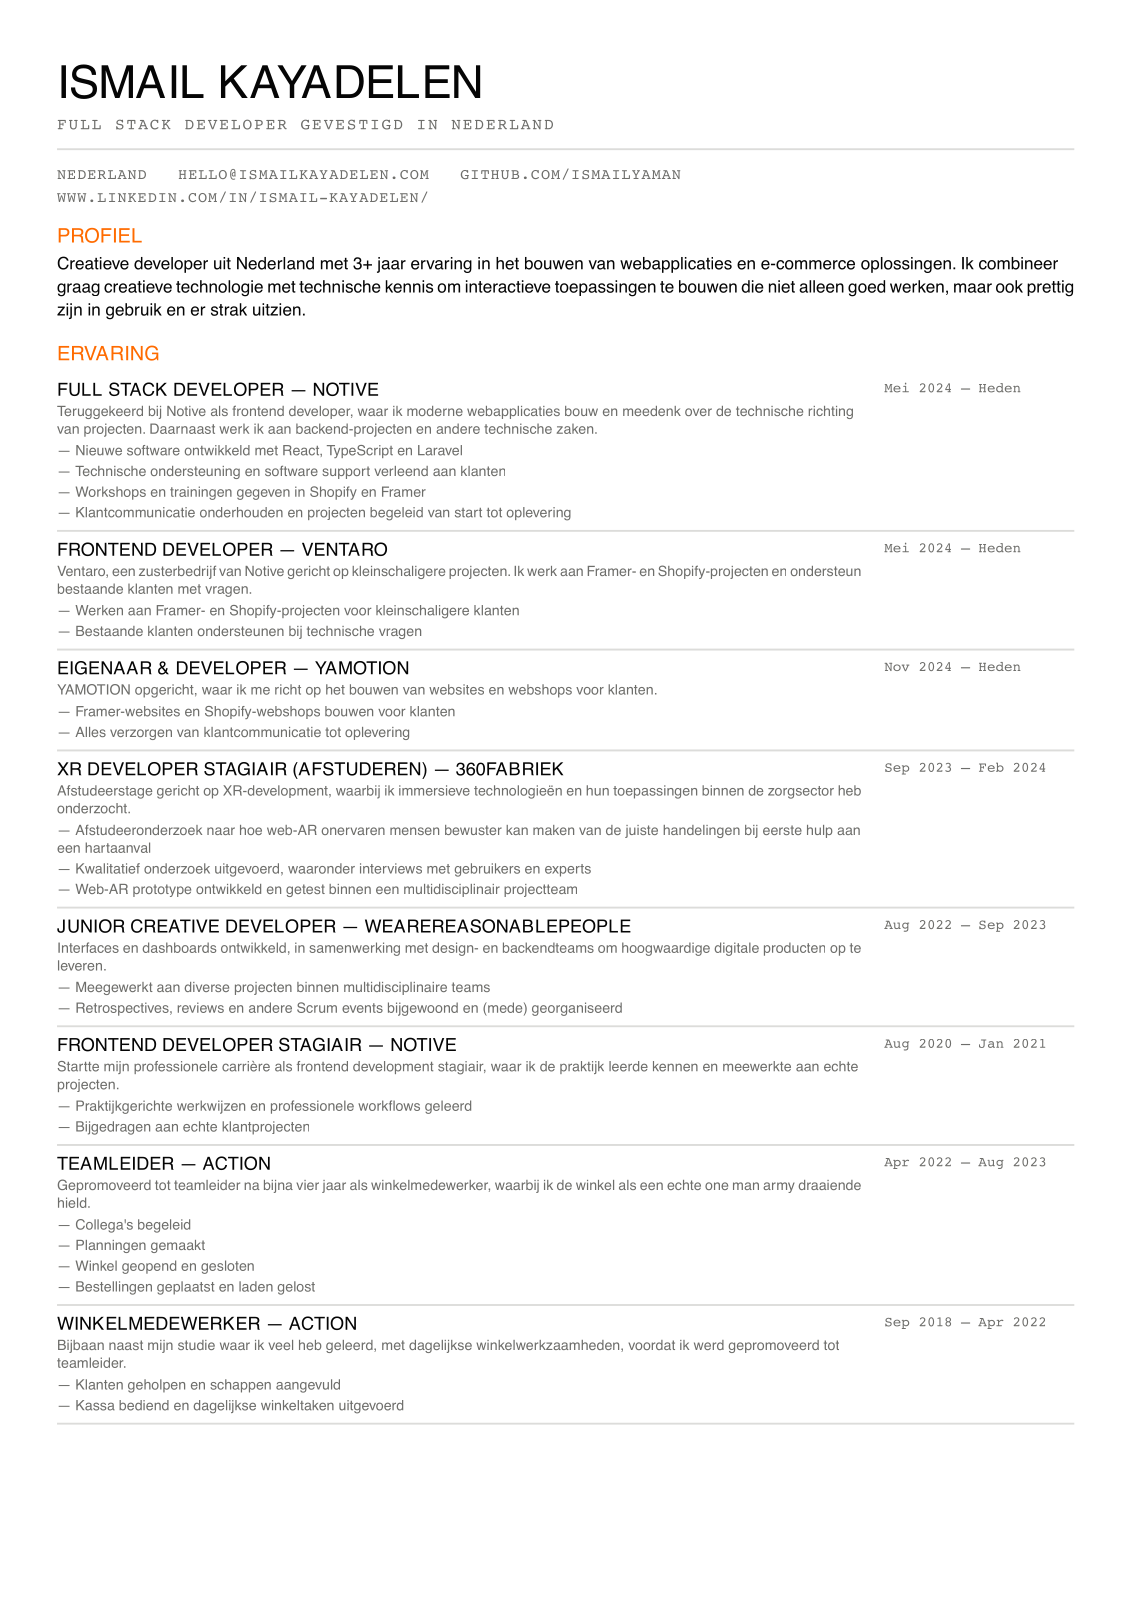
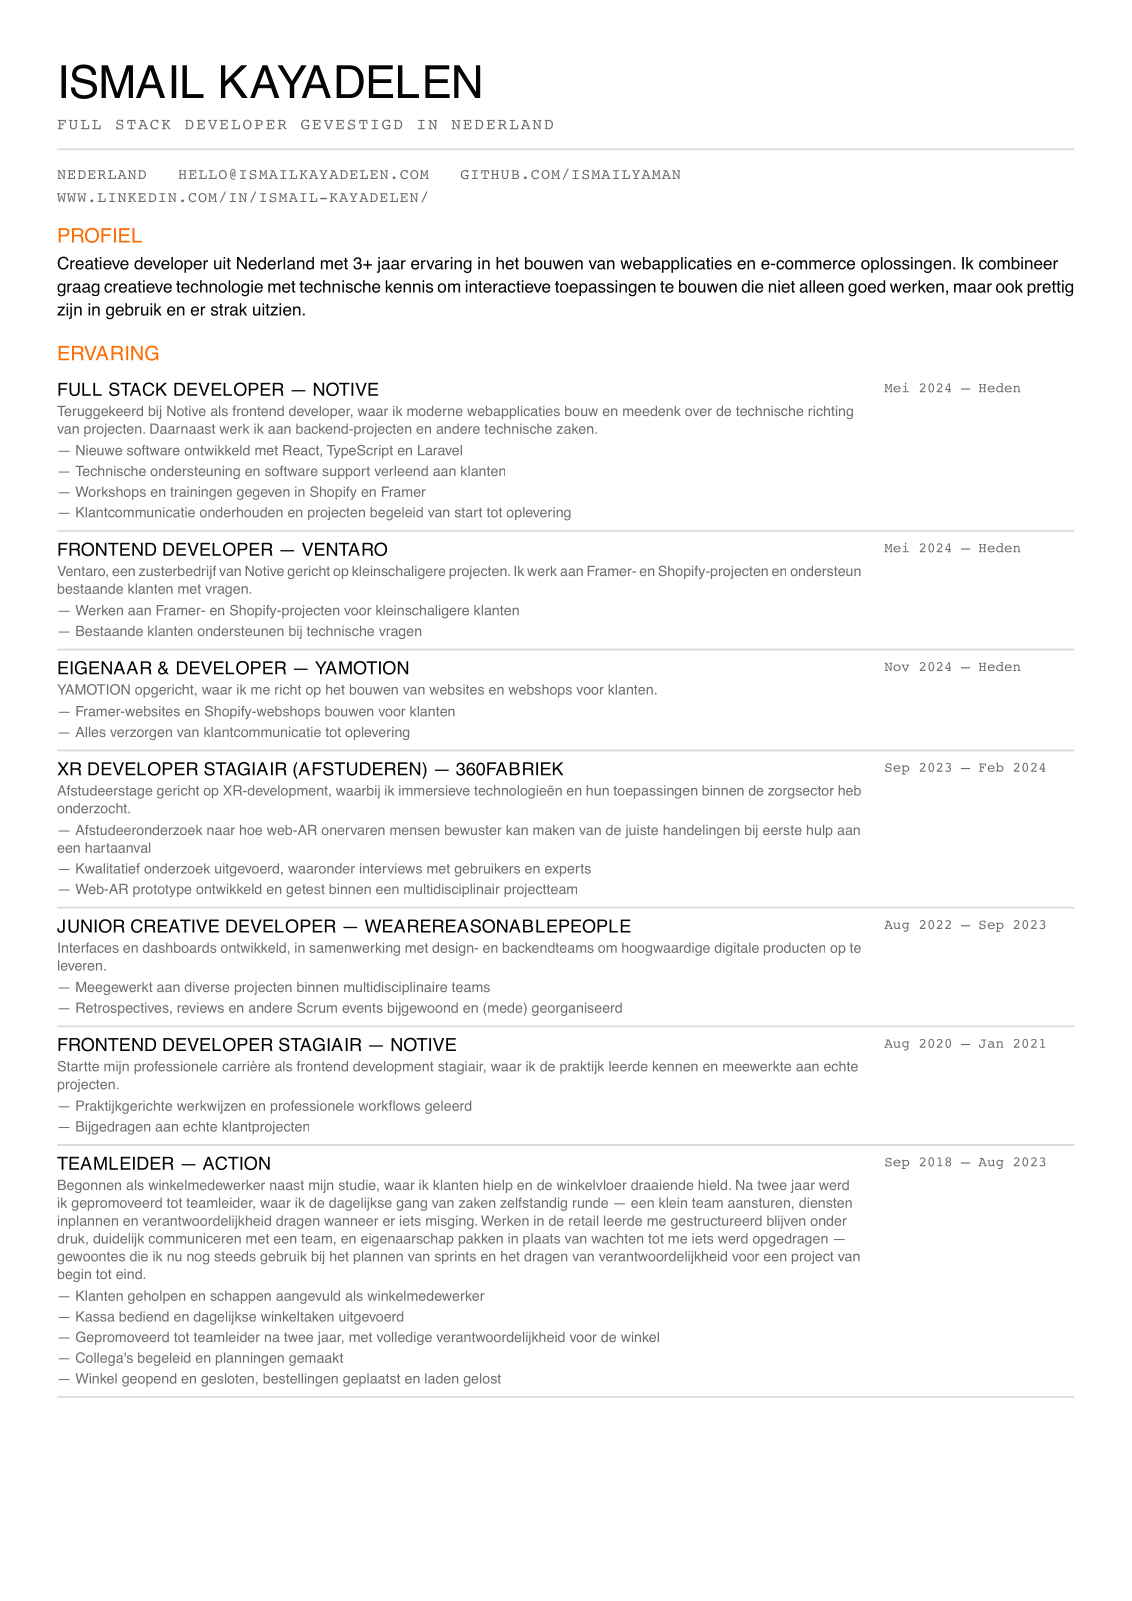
Merge Action work history into one entry, expand its summary
Combine the Store Assistant and Teamlead entries into a single
"Teamlead — Action" role spanning Sep 2018 - Aug 2023, and write a
fuller summary covering how the work went, what was learned, and how
it carries over into development work today.

Changed region(s): [[0.0309, 0.7183, 0.742, 0.9057], [0.8657, 0.812, 0.9276, 0.8432], [0.773, 0.812, 0.8039, 0.8432]]

diff --git a/lib/data.ts b/lib/data.ts
@@ -422,38 +422,26 @@ export const experience: ExperienceEntry[] = [
     title: { en: "Teamlead", nl: "Teamleider" },
     company: "Action",
     type: "Work",
-    year: { en: "Apr 2022 – Aug 2023", nl: "Apr 2022 – Aug 2023" },
+    year: { en: "Sep 2018 – Aug 2023", nl: "Sep 2018 – Aug 2023" },
     description: {
-      en: "Promoted to teamlead after almost four years as a store assistant, running the store as a true one man army.",
-      nl: "Gepromoveerd tot teamleider na bijna vier jaar als winkelmedewerker, waarbij ik de winkel als een echte one man army draaiende hield.",
+      en: "Started as a store assistant alongside my studies, helping customers and keeping the shop floor running smoothly. After two years I was promoted to teamlead, where I ran daily operations independently — coordinating a small team, planning shifts, and taking responsibility when things went wrong. Working in retail taught me to stay structured under pressure, communicate clearly with a team, and take ownership instead of waiting to be told what to do — habits I still rely on today when planning sprints and taking a project from start to finish.",
+      nl: "Begonnen als winkelmedewerker naast mijn studie, waar ik klanten hielp en de winkelvloer draaiende hield. Na twee jaar werd ik gepromoveerd tot teamleider, waar ik de dagelijkse gang van zaken zelfstandig runde — een klein team aansturen, diensten inplannen en verantwoordelijkheid dragen wanneer er iets misging. Werken in de retail leerde me gestructureerd blijven onder druk, duidelijk communiceren met een team, en eigenaarschap pakken in plaats van wachten tot me iets werd opgedragen — gewoontes die ik nu nog steeds gebruik bij het plannen van sprints en het dragen van verantwoordelijkheid voor een project van begin tot eind.",
     },
     bullets: {
       en: [
-        "Guided and supervised colleagues",
-        "Made staff planning and schedules",
-        "Opened and closed the store",
-        "Placed orders and unloaded deliveries",
+        "Assisted customers and stocked shelves as a store assistant",
+        "Operated the register and handled daily store tasks",
+        "Promoted to teamlead after two years, taking full ownership of the store",
+        "Guided and supervised colleagues, and made staff planning and schedules",
+        "Opened and closed the store, placed orders, and unloaded deliveries",
       ],
       nl: [
-        "Collega's begeleid",
-        "Planningen gemaakt",
-        "Winkel geopend en gesloten",
-        "Bestellingen geplaatst en laden gelost",
+        "Klanten geholpen en schappen aangevuld als winkelmedewerker",
+        "Kassa bediend en dagelijkse winkeltaken uitgevoerd",
+        "Gepromoveerd tot teamleider na twee jaar, met volledige verantwoordelijkheid voor de winkel",
+        "Collega's begeleid en planningen gemaakt",
+        "Winkel geopend en gesloten, bestellingen geplaatst en laden gelost",
       ],
-    },
-  },
-  {
-    title: { en: "Store Assistant", nl: "Winkelmedewerker" },
-    company: "Action",
-    type: "Work",
-    year: { en: "Sep 2018 – Apr 2022", nl: "Sep 2018 – Apr 2022" },
-    description: {
-      en: "Part-time job alongside my studies where I learned a lot, handling day-to-day store work before being promoted to teamlead.",
-      nl: "Bijbaan naast mijn studie waar ik veel heb geleerd, met dagelijkse winkelwerkzaamheden, voordat ik werd gepromoveerd tot teamleider.",
-    },
-    bullets: {
-      en: ["Assisted customers and stocked shelves", "Operated the register and handled daily store tasks"],
-      nl: ["Klanten geholpen en schappen aangevuld", "Kassa bediend en dagelijkse winkeltaken uitgevoerd"],
     },
   },
   {
